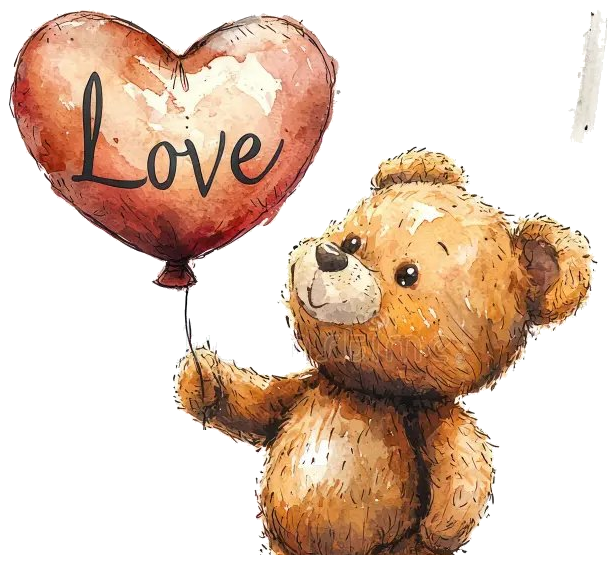
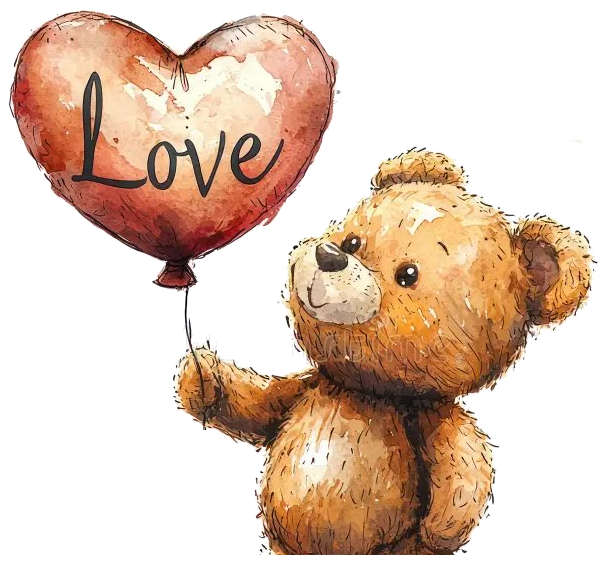
feat: complete creative celestial universe with rich UI/UX, 4 atmosphere themes, polaroid integration, and interactive actions

Changed region(s): [[0.9253, 0.0302, 0.987, 0.242]]

diff --git a/js/ascii-teddy.js b/js/ascii-teddy.js
@@ -250,9 +250,9 @@ export class AsciiTeddy {
       const winH = window.innerHeight || 800;
       const isDualStage = !isPortrait && winW > 920;
 
-      const targetHeightRatio = isDualStage ? 0.70 : (isPortrait ? 0.58 : 0.65);
+      const targetHeightRatio = isDualStage ? 0.70 : (isPortrait ? 0.46 : 0.62);
       const maxH = rows * targetHeightRatio;
-      const maxW = cols * (isDualStage ? 0.44 : (isPortrait ? 0.86 : 0.52));
+      const maxW = cols * (isDualStage ? 0.44 : (isPortrait ? 0.76 : 0.50));
 
       // Compensate for character font aspect ratio (0.55) so teddy retains 1:1 geometry
       const stageAspect = (drawImgH / drawImgW);
@@ -266,7 +266,7 @@ export class AsciiTeddy {
 
       const drawY = isDualStage
         ? Math.round((rows - drawH) * 0.46)
-        : Math.round(rows * (winH < 650 ? 0.04 : 0.08));
+        : Math.round(rows * (winH < 650 ? 0.08 : 0.12));
 
       // Sinuous gentle sway anchored at feet base
       const anchorScreenX = drawX + drawW * 0.5;
@@ -338,10 +338,11 @@ export class AsciiTeddy {
         let finalCol = 'rgb(200, 150, 100)';
         let isHeart = false;
 
-        // Accurate Heart vs Plush Fur classification (Prevents brown fur from turning red)
-        const isHeartColor = (red - grn > 40) && (red - blu > 40) && (red > 120);
+        // Accurate Heart vs Plush Fur classification
+        // In watercolor red hearts, red heavily exceeds green and blue, and green is NOT much higher than blue (unlike yellow/amber fur where green >> blue)
+        const isHeartColor = (red - grn >= 46) && (red - blu >= 42) && (grn - blu <= 16) && (red > 125);
         const isDarkEyes = (red < 65) && (grn < 65) && (blu < 65);
-        const isMuzzleHighlight = !isHeartColor && !isDarkEyes && (red > 220) && (grn > 195) && (blu > 170);
+        const isMuzzleHighlight = !isHeartColor && !isDarkEyes && (red > 225) && (grn > 200) && (blu > 170);
 
         if (isStardust) {
           char = '✦';

diff --git a/css/style.css b/css/style.css
@@ -932,23 +932,41 @@ body {
     gap: 4px;
   }
 
-  /* Floating Polaroid on mobile: sits neatly above action card */
+  /* Floating Polaroid on mobile: sits charmingly in the sky beside teddy */
   .floating-polaroid {
-    top: auto;
-    bottom: 275px;
-    right: 16px;
-    width: 105px;
-    padding: 6px 6px 12px 6px;
-    transform: rotate(3deg);
+    position: fixed;
+    top: 78px;
+    bottom: auto;
+    left: 50%;
+    right: auto;
+    width: 88px;
+    padding: 5px 5px 8px 5px;
+    z-index: 60;
+    transform: translateX(82px) rotate(4deg);
+  }
+
+  .floating-polaroid.visible {
+    opacity: 1 !important;
+    pointer-events: auto !important;
+    transform: translateX(82px) translateY(0) rotate(4deg);
+  }
+
+  .polaroid-tape {
+    width: 40px;
+    height: 14px;
+    top: -7px;
   }
 
   .polaroid-inner {
-    height: 110px;
+    height: 88px;
   }
 
   .polaroid-caption {
-    font-size: 11px;
-    margin-top: 5px;
+    font-size: 9px;
+    margin-top: 3px;
+    white-space: nowrap;
+    overflow: hidden;
+    text-overflow: ellipsis;
   }
 
   /* Gift action card on mobile: docked nicely at bottom */
@@ -1014,15 +1032,22 @@ body {
 /* Extra small devices (e.g. iPhone SE 320px) */
 @media (max-width: 360px) {
   .floating-polaroid {
-    display: none; /* Hide polaroid on extremely small 320px screens to prevent overlapping */
+    width: 68px;
+    top: 88px;
+    right: 8px;
+  }
+
+  .polaroid-inner {
+    height: 72px;
   }
 
   .gift-action-card {
-    bottom: 52px;
-    padding: 10px 12px 8px;
+    bottom: 46px;
+    padding: 9px 10px 6px;
   }
 
   .gift-action-group {
     grid-template-columns: 1fr;
+    gap: 4px;
   }
 }
